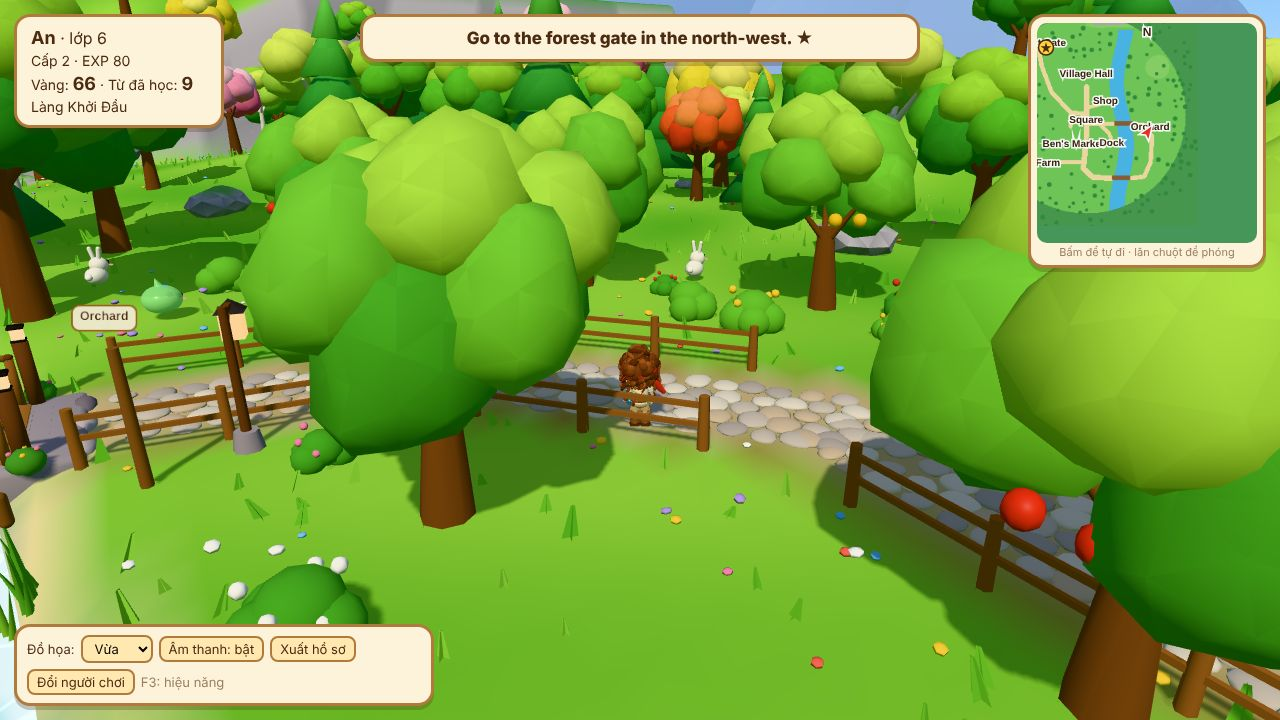
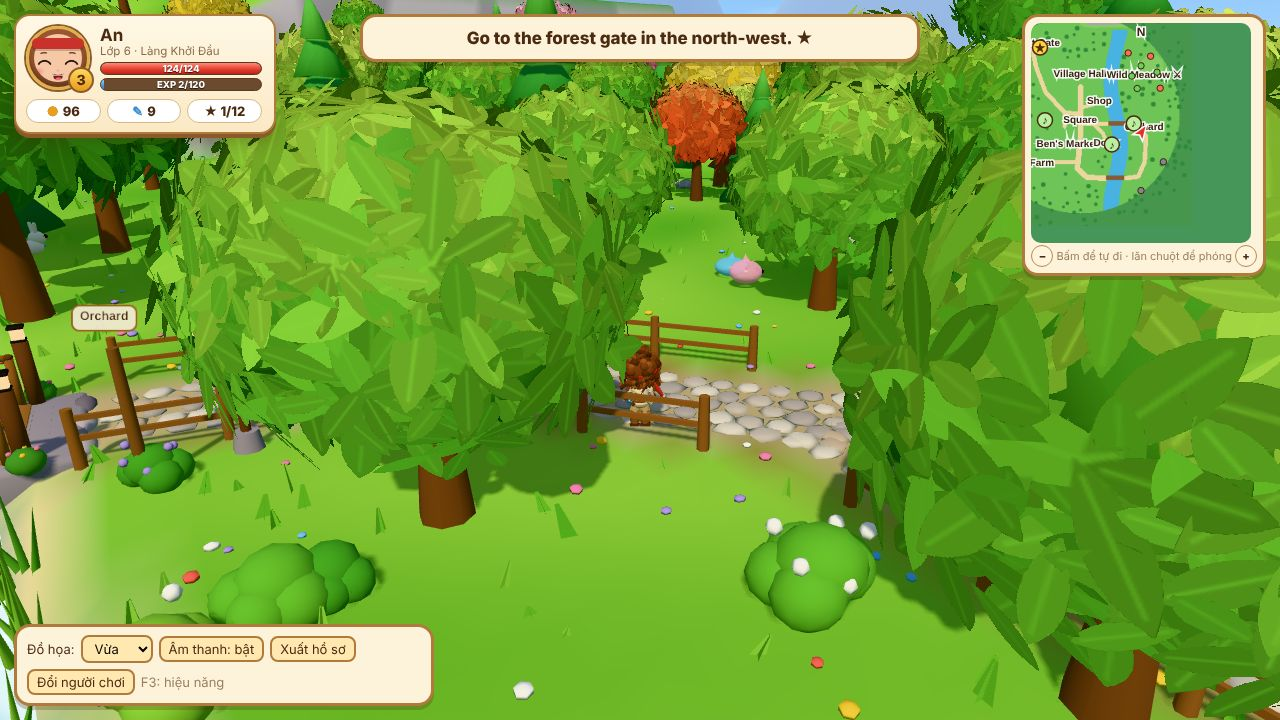
Plan: ten maps for twelve units, status after HUD, combat, wild zone and the performance pass; screenshots (e2e 89/89)
Claude-Session: https://claude.ai/code/session_016V53wRW9YWMRac6Jvmq8hw

diff --git a/docs/MAP1_PLAN.md b/docs/MAP1_PLAN.md
@@ -8,18 +8,31 @@ Mục tiêu: trẻ muốn chơi tiếp vì trò chơi vui. Tiếng Anh nằm tro
 - Map 1 có 20 cấp. Lên cấp bằng EXP. Cổng sang map 2 mở khi đạt cấp 20 và thắng boss.
 - Nội dung học theo lớp của hồ sơ (6–9). Lớp chưa soạn thì game nói rõ, không mượn lớp khác.
 
-## Cấp và Unit (đề xuất, chờ duyệt)
-- Mỗi map 20 cấp, dạy 2 Unit: cấp 1–10 là Unit 1, cấp 11–20 là Unit 2.
-- 6 map đầu dạy đủ 12 Unit. Map 7–8 ôn tập và thi cuối.
-- Mỗi 5 cấp có một "cổng kiến thức" (ôn từ đến hạn) mới lên tiếp được.
+## Cấp và Unit
+Chơi chung map, chương trình học theo lớp của hồ sơ. 10 map cho 12 Unit:
+
+| Map | Tên | Unit | Cấp |
+|---|---|---|---|
+| 1 | Làng Khởi Đầu + Đồng Hoang | 1 | 1–20 |
+| 2 | Rừng Ký Ức | 2 | 21–40 |
+| 3 | Sa mạc Gió Vàng | 3 | 41–60 |
+| 4 | Ôn tập 1: Vườn cây – hội chợ | ôn 1–3 | 61–70 |
+| 5 | Núi Vọng Âm | 4–5 | 71–90 |
+| 6 | Cảng Đại Dương | 6–7 | 91–110 |
+| 7 | Ôn tập 2: Cầu đèn đỏ ban đêm | ôn 4–7 | 111–120 |
+| 8 | Học viện Tri thức | 8–9 | 121–140 |
+| 9 | Thành phố Tương lai | 10–11 | 141–160 |
+| 10 | Đảo Trời + Tháp Pha lê | 12 + thi cuối | 161–180 |
+
+Mỗi 5 cấp có một "cổng kiến thức" (ôn từ đến hạn) mới lên tiếp được.
 
 ## Hệ thống cần làm
 | # | Hạng mục | Nội dung | Trạng thái |
 |---|---|---|---|
-| A1 | HUD nhân vật | Khung chân dung, cấp, thanh máu, thanh EXP, vàng, sao | chưa |
+| A1 | HUD nhân vật | Khung chân dung, cấp, thanh máu, thanh EXP, vàng, sao | xong |
 | A2 | Cấp 1–20 | Đường cong EXP, hiệu ứng lên cấp, chỉ số tăng theo cấp | một phần (có EXP, cấp) |
-| A3 | Chiến đấu | Đánh thường, né, máu, hồi sinh ở làng | chưa |
-| A4 | Đồng Hoang | Khu quái ngoài cầu Nam: slime, dơi, golem; quái theo cấp | chưa |
+| A3 | Chiến đấu | Đánh thường (J/F), máu, đẩy lùi, hồi sinh ở làng | xong (chưa có né) |
+| A4 | Đồng Hoang | Đông Bắc làng: slime xanh, slime đỏ, golem đá | xong (chưa có dơi) |
 | A5 | Cửa hàng + trang bị | Bram bán vũ khí, Ben bán giáp/phụ kiện, Rose bán bánh hồi máu | chưa |
 | A6 | Túi đồ | Ô trang bị, đồ đang mặc hiện trên người Ngọc | chưa |
 | A7 | Boss map 1 | Vua Slime; đòn đặc biệt mở bằng câu trả lời từ vựng Unit | chưa |
@@ -33,7 +46,7 @@ Mục tiêu: trẻ muốn chơi tiếp vì trò chơi vui. Tiếng Anh nằm tro
 | C3 | Nhiệm vụ săn quái có lời thoại tiếng Anh | NPC giao việc bằng câu mẫu Unit | chưa |
 | C4 | Cổng kiến thức mỗi 5 cấp | Ôn cách quãng | chưa |
 | D1 | Lấp đất trống | Bãi tập, đường đua, trại, ao, cối xay | chưa |
-| D2 | Nén model | Giảm dung lượng tải (hiện ~17.7 MB) | chưa |
+| D2 | Nhẹ máy | Tải 17.7 → 10.9 MB; 723 → 210 vật thể vẽ; tự hạ đồ họa | xong, chờ đo FPS máy thật |
 
 ## Thứ tự làm
 1. A1 HUD → A2 cấp → A3 chiến đấu → A4 Đồng Hoang (lõi "train").
